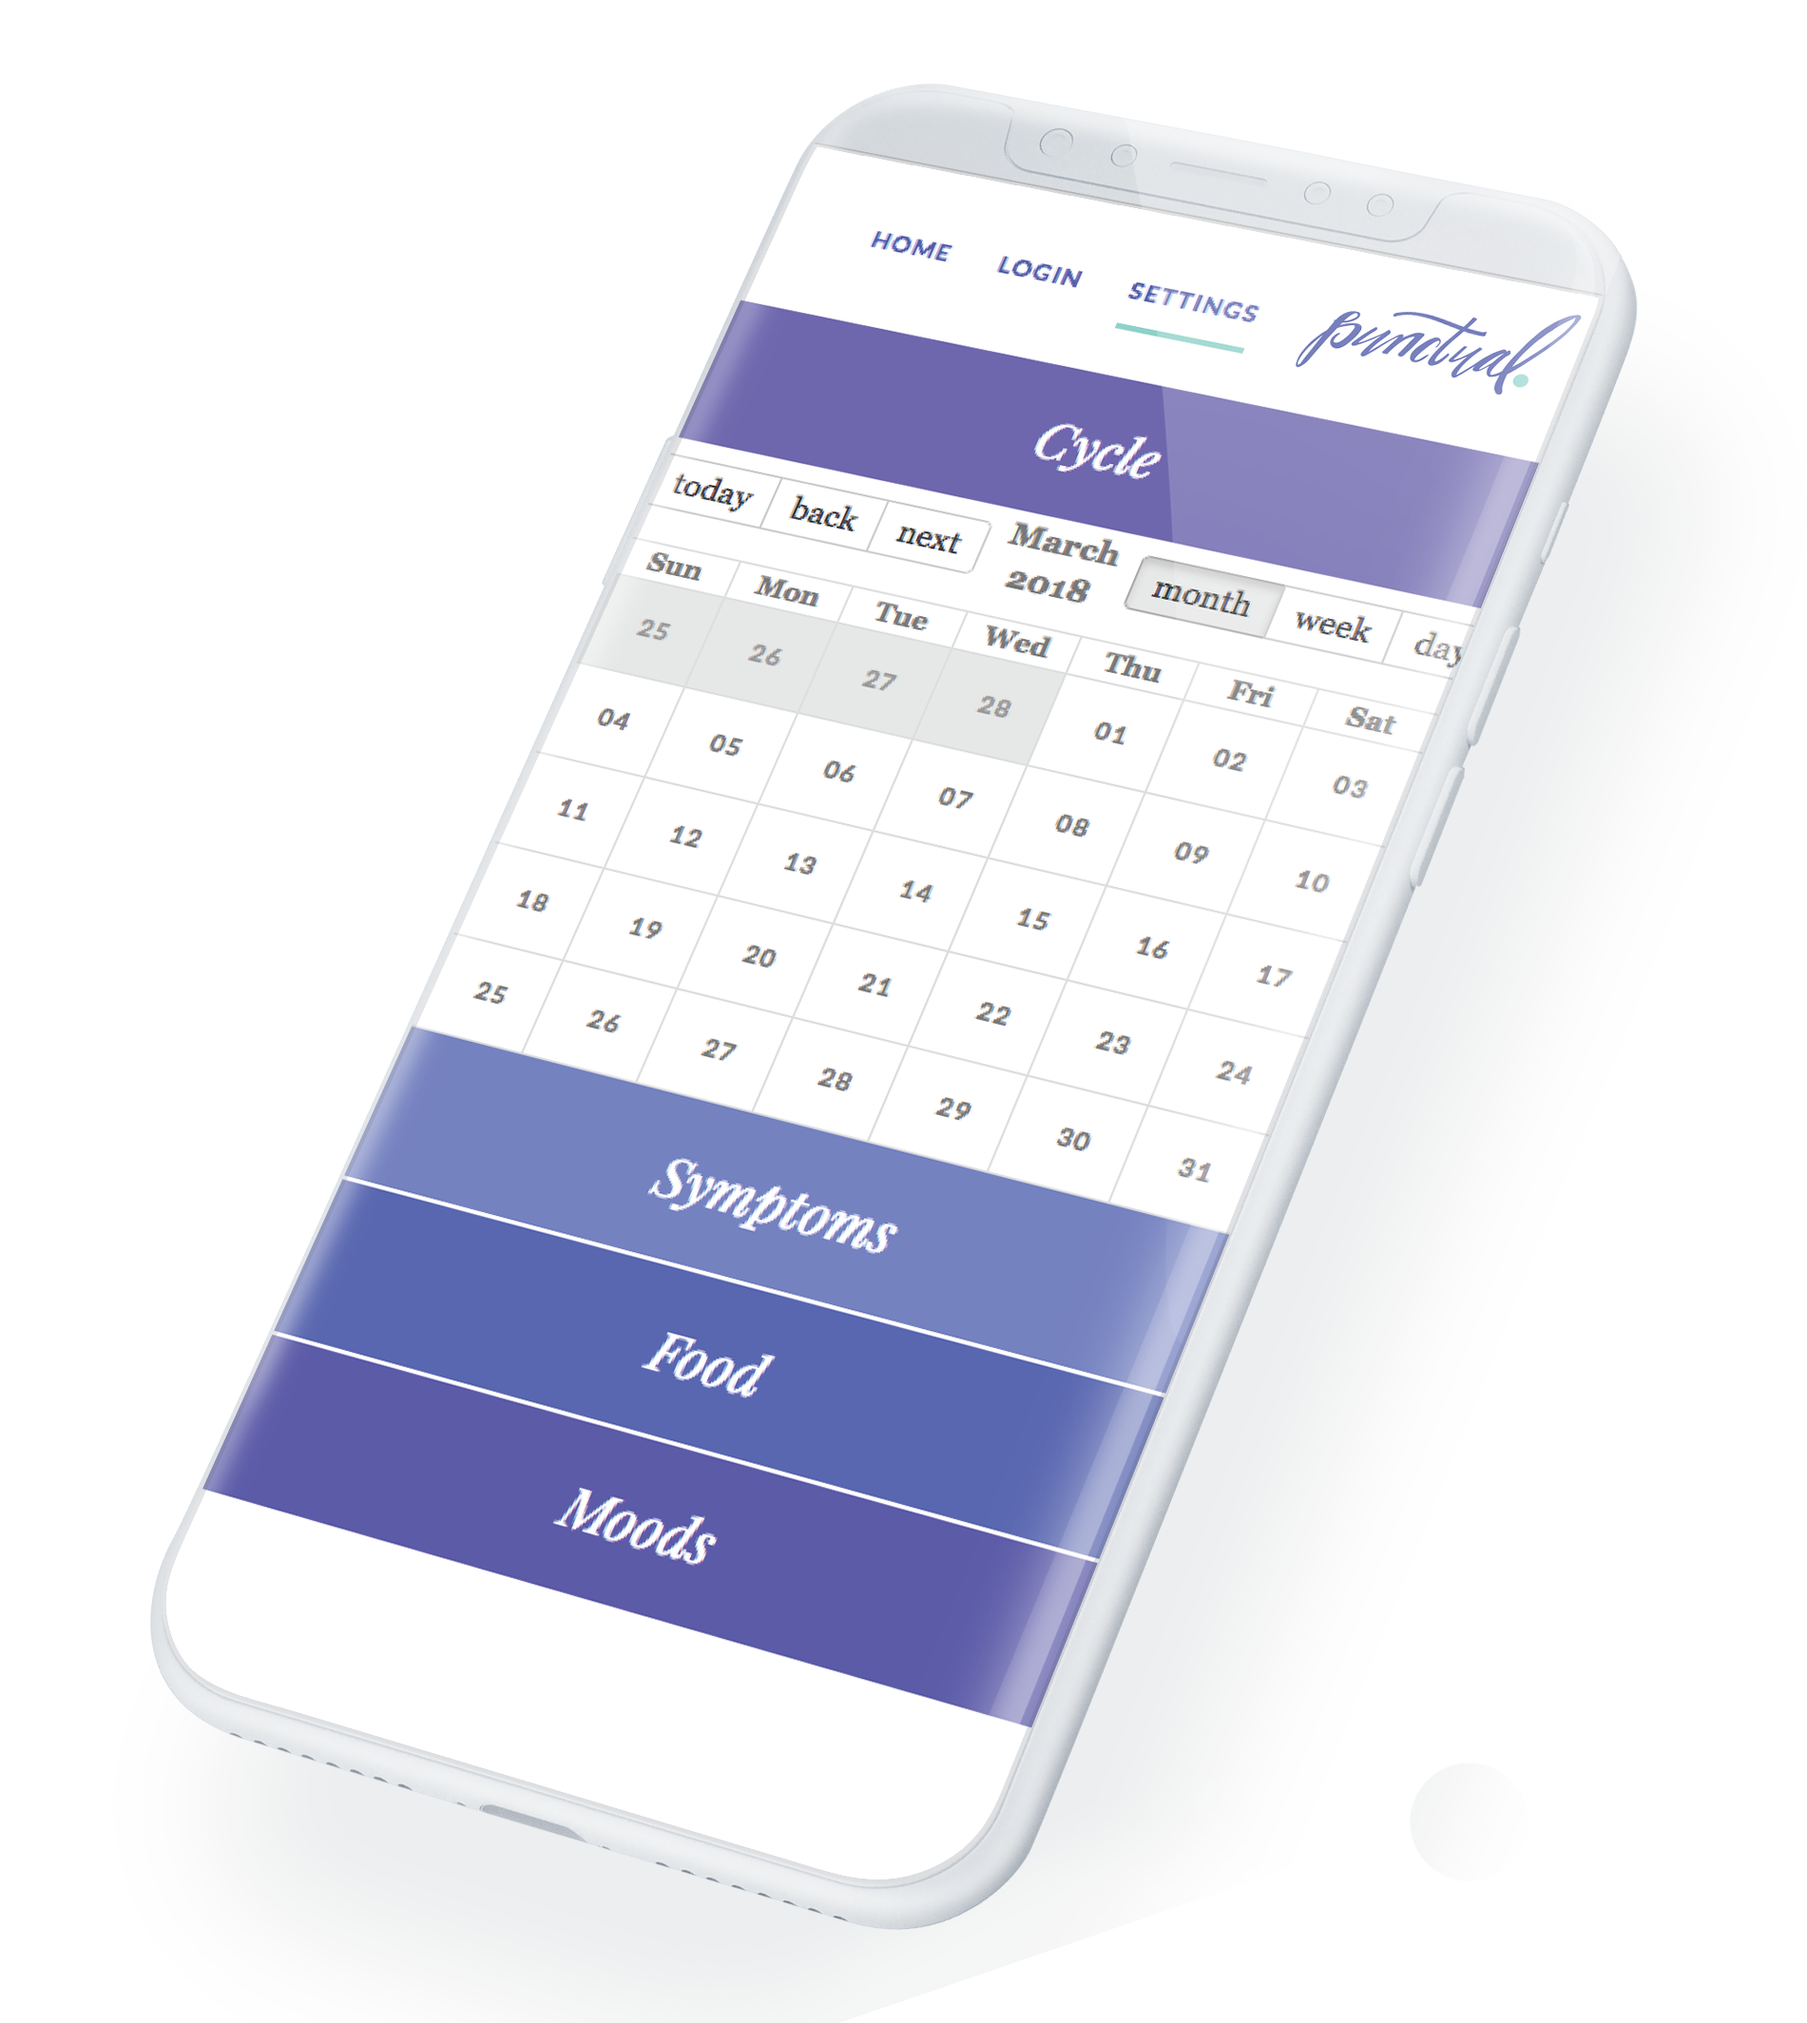
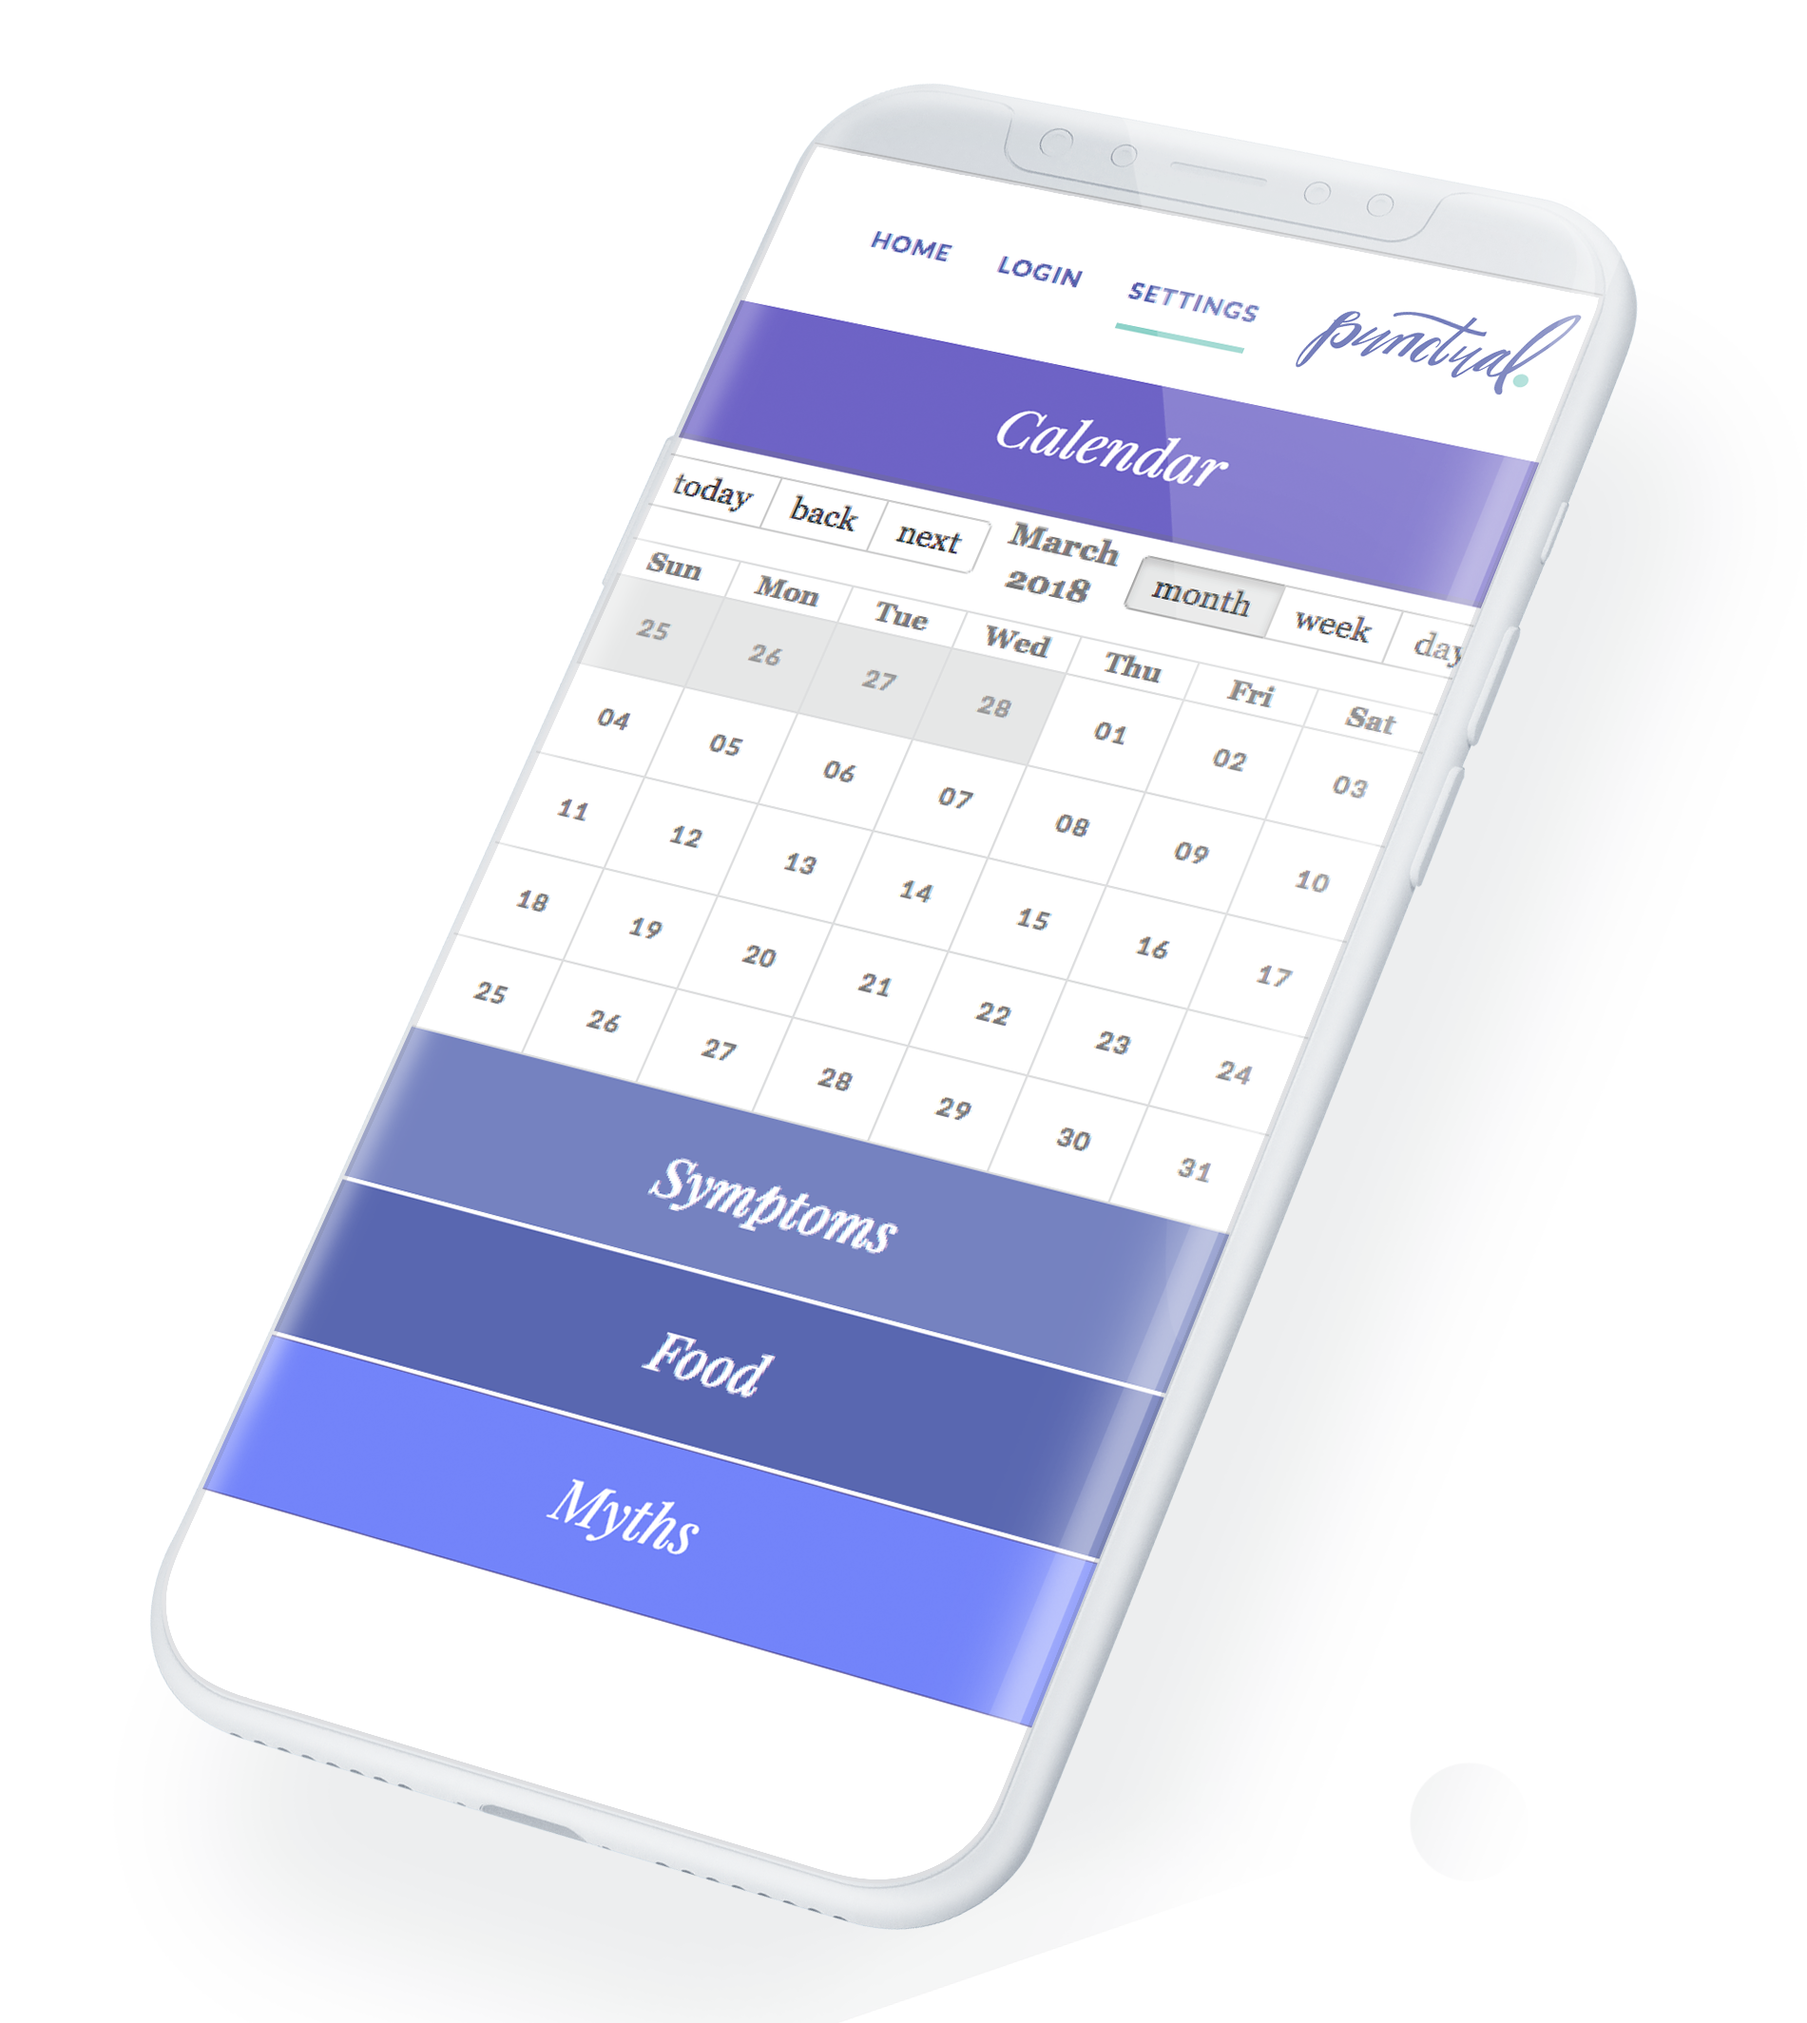
final clean

Changed region(s): [[0.0931, 0.6513, 0.6207, 0.8684], [0.5587, 0.1861, 0.6828, 0.2481]]

diff --git a/client/src/components/Message/Message.js b/client/src/components/Message/Message.js
@@ -150,10 +150,10 @@ class Message extends Component {
                 return "Estrogen is UP! Your face looks more symmetrical, and wow your skin is GLOWING! Testosterone is up as well, so you feel that you are on top of the world. This is a good time to try new things!";
                 break;
             case "four":
-                return "Estogen is at its peak. You are at your sexiest and most fertile. You may feel more optimistic and super social than usual. Make sure to have fun!";
+                return "At this stage of your cycle, estogen is at its peak. You are at your sexiest and most fertile. You may feel more optimistic and super social than usual. Make sure to have fun!";
                 break;
             case "five":
-                return "Ovaluation is here. Your ovary releases an egg. If it's not fertalized, it dissolves.";
+                return "At this stage of your cycle, ovaluation is here. Your ovary releases an egg. If it's not fertalized, it dissolves.";
                 break;
             case "six":
                 return "Oh no, hormones change!. This may intensify your emotions and tiredness.";
@@ -180,8 +180,9 @@ class Message extends Component {
                     <div className="container-fluid form">
                         <div className="fact-section">
                             <h1 className="title"> THE FACTS</h1>
-                                    <div className="result-text-first" id="result"> Hello, {this.state.user.name}! The date of your last period was {moment.utc(this.state.user.lastdateoflastperiod).format("dddd, MMMM Do YYYY")}. Since your cycle length is about {this.state.user.lengthofcycle} days, we predict that your next period will come on {moment.utc(this.state.user.lastdateoflastperiod).subtract(this.state.user.lengthofperiod, "day").add(this.state.user.lengthofcycle, "day").format("dddd, MMMM Do YYYY")}.</div>
-                  
+
+                                    <div className="result-text-first" id="result"> Hello, {this.state.user.name}! The date of your last period was <strong>{moment.utc(this.state.user.lastdateoflastperiod).format("dddd, MMMM Do YYYY")}</strong>. Since your cycle length is about <strong> {this.state.user.lengthofcycle} days</strong>, we predict that your next period will come on <strong>{moment.utc(this.state.user.lastdateoflastperiod).subtract(this.state.user.lengthofperiod, "day").add(this.state.user.lengthofcycle, "day").format("dddd, MMMM Do YYYY")}</strong>.</div>
+                                    <h1 className="stage">At this stage of your cycle...</h1>
                                     <div className="extra-info">{this.handleStageResult(this.state.stage)}</div>
                     
                         </div>

diff --git a/client/src/components/Message/Message.css b/client/src/components/Message/Message.css
@@ -11,6 +11,12 @@
  margin-top: 20px;
 }
 
+strong{
+         font-family: Lato, 'Helvetica Neue', Helvetica, sans-serif;
+         color: #86e0d1
+
+}
+
 .extra-info{
     background-color: none;
      font-family: Lato, 'Helvetica Neue', Helvetica, sans-serif;
@@ -42,7 +48,20 @@
     padding-bottom: 20px;
     padding-top: 0px;
  
-
-
 }
-	
+
+.stage {
+        font-family: Lato, 'Helvetica Neue', Helvetica, sans-serif;
+  font-size: 20px;
+   text-align: center;
+    line-height: 30px;
+    font-weight: 300;
+    text-transform: uppercase;
+    color: #6e64c5;
+    letter-spacing: 1px;
+    height: 12px;
+    font-style: italic;
+    margin-top: 30px;
+    padding-bottom: 20px;
+    padding-top: 0px;
+}	

diff --git a/client/src/pages/Food/Food.js b/client/src/pages/Food/Food.js
@@ -101,7 +101,7 @@ class Food extends React.Component {
                         <div className="col-lg-8 col-lg-offset-2">
                             <div className="container-fluid form">
                                 
-                                       <label>
+                                <label>
                                 Search Food
                                 <input value={this.state.searchQuery} onChange={this.handleInputChange} type="text" name="searchQuery" />
                                 </label>

diff --git a/client/src/pages/Food/food.css b/client/src/pages/Food/food.css
@@ -9,6 +9,8 @@ display: block;
 
 }
 
+
+
 .image {
   display: block;
   width: 100%;
@@ -22,7 +24,7 @@ display: block;
   bottom: 0;
   left: 0;
   right: 0;
-  background-color: white;
+  background-color: #4A4FE4;
   overflow: hidden;
   width: 100%;
   height: 0;
@@ -106,7 +108,7 @@ display: block;
     height: 12px;
     font-style: italic;
     margin-top: 0;
-    padding-bottom: 80px
+    padding-bottom: 110px
 
 }
 

diff --git a/client/src/pages/Toggle/Toggle.js b/client/src/pages/Toggle/Toggle.js
@@ -51,7 +51,7 @@ class Toggle extends Component {
           </div>*/}
         <Accordion>
           {/*Calendar*/}
-          <AccordionItem title={`Cycle`} className={`cycle`}>
+          <AccordionItem title={`Calendar`} className={`calendar`}>
             <BigCalendar />
             <Message />
           </AccordionItem>

diff --git a/client/src/components/AppAuth/AppAuth.js b/client/src/components/AppAuth/AppAuth.js
@@ -58,6 +58,7 @@ class AppAuth extends Component {
                 )
             }
             <li className="item"><a href="/profile">settings</a></li>
+            <img src="https://i.imgur.com/mWRPZ4W.png" className="nav-logo" alt="punctual logo" width="auto" height="70px"></img>
         </ul>
         
       </div>

diff --git a/client/src/pages/Toggle/toggle.css b/client/src/pages/Toggle/toggle.css
@@ -10,7 +10,7 @@
   z-index: 2
 }
 
-.cycle .react-sanfona-item-title {
+.calendar .react-sanfona-item-title {
   background: #6e64c5;
   border-bottom: 2px solid white;
 }

diff --git a/client/src/components/Jumbotron/Jumbotron.css b/client/src/components/Jumbotron/Jumbotron.css
@@ -145,8 +145,3 @@ background: #F6F6F6;
 
 
 
-@media only screen and (max-width: 480px) {
-    .summary-header {
-        display: none;
-    }
-}
